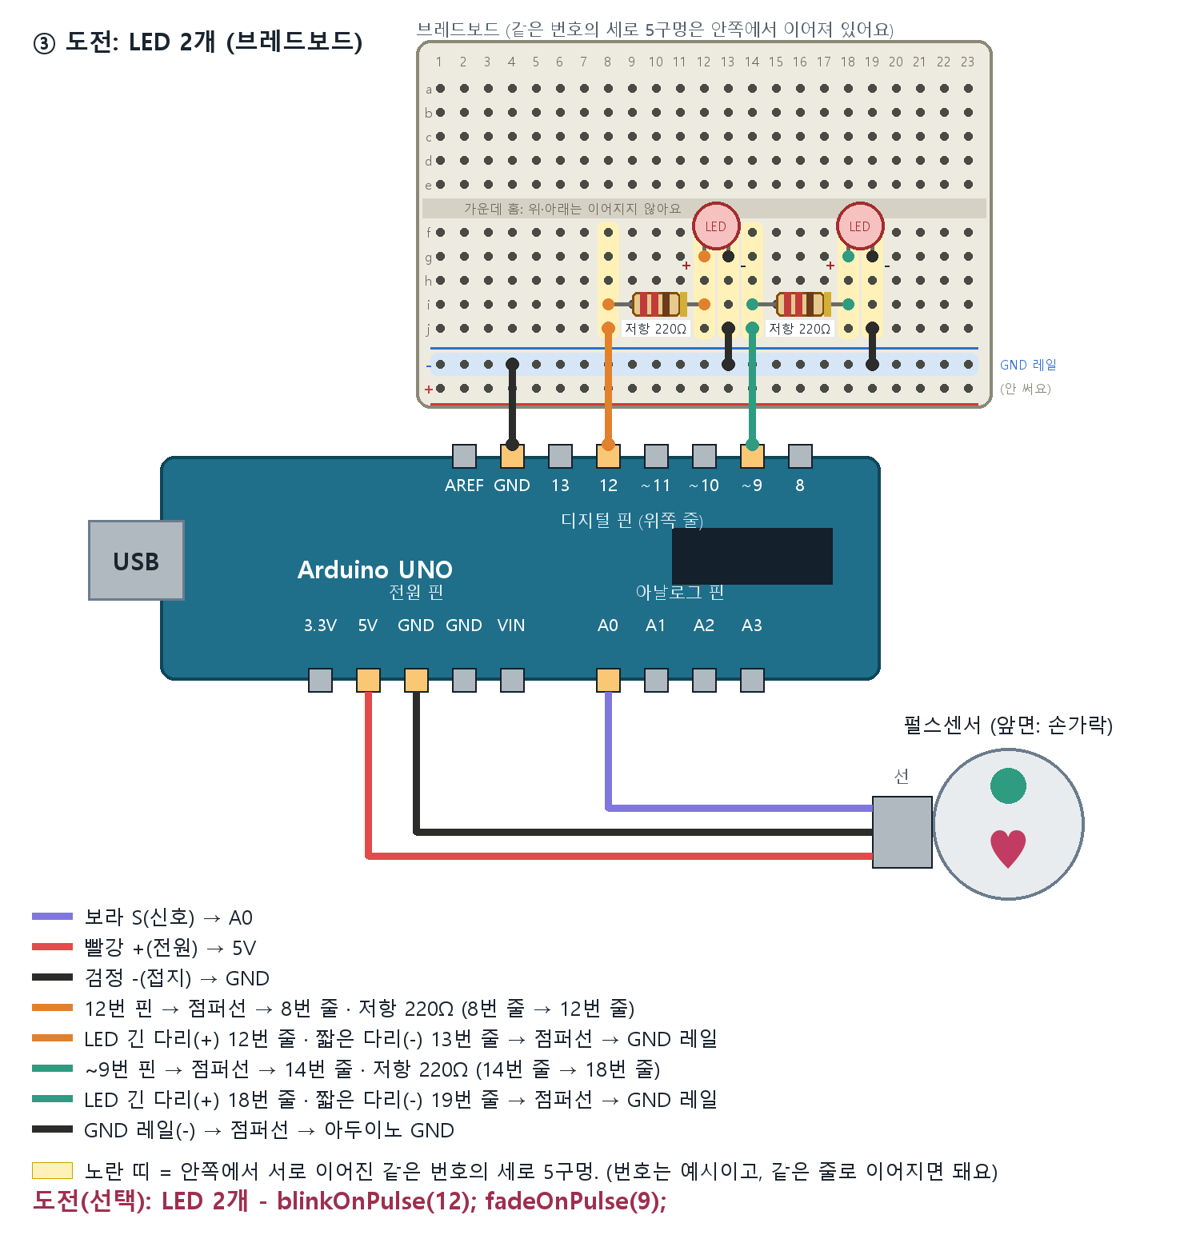
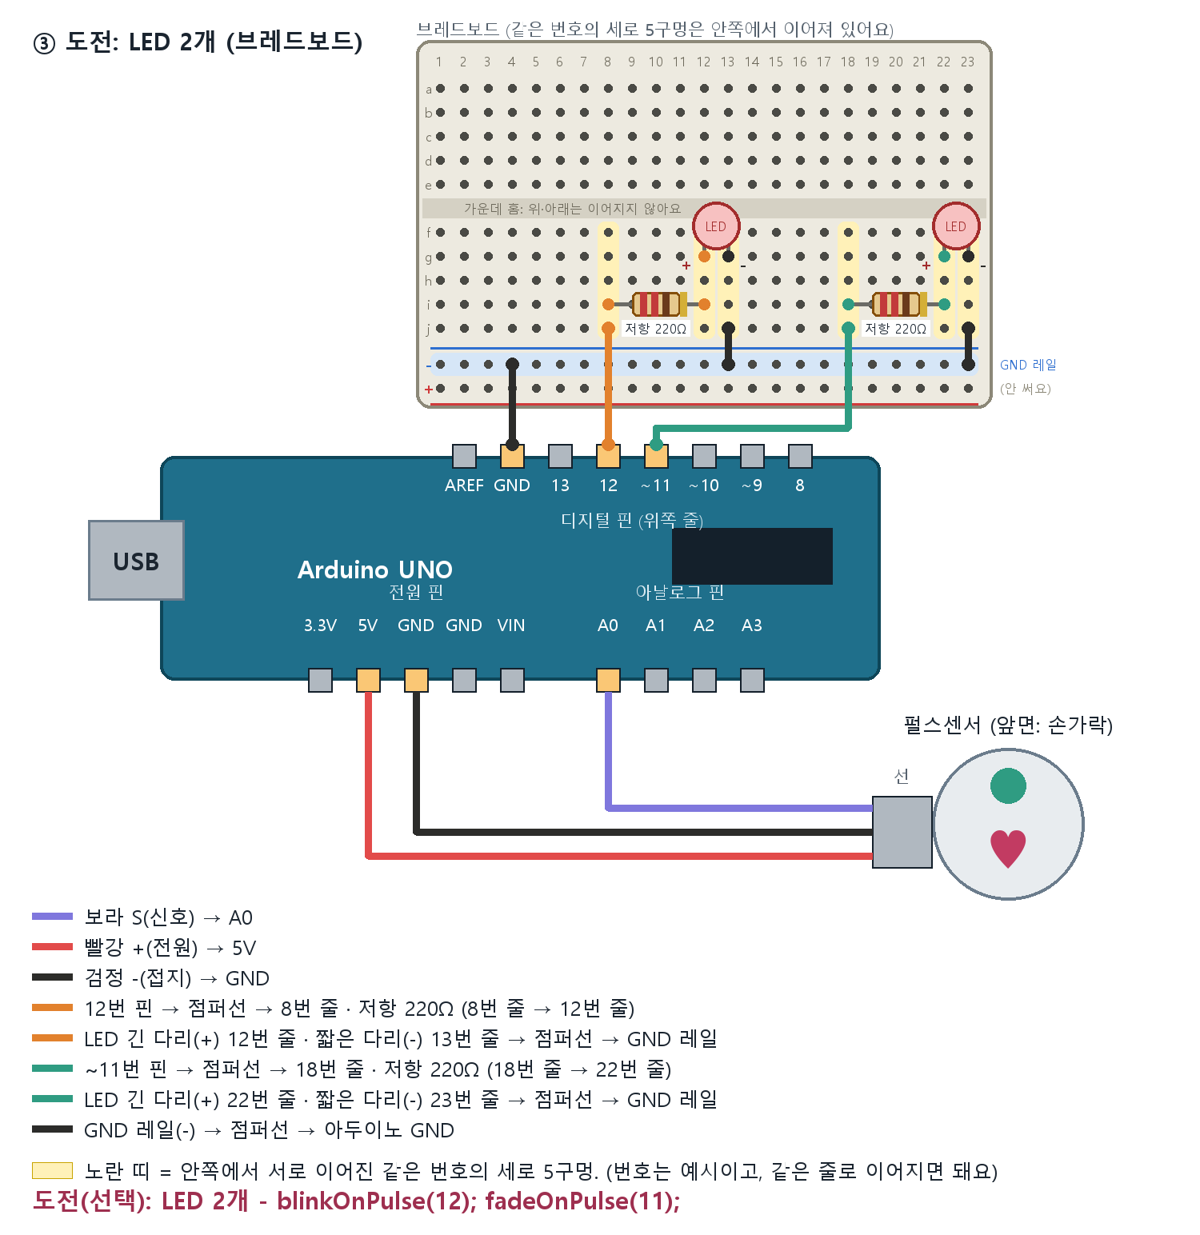
주제4 LED 2개 도면: 2번째 LED를 9번 → 11번 핀으로 (우노에서 센서 라이브러리가 Timer1을 써 9·10번 PWM 불가)

diff --git a/heart-rate-vitals/activity.html b/heart-rate-vitals/activity.html
@@ -524,7 +524,7 @@ void loop() {
             <li>코드에서 <code>pulseSensor.blinkOnPulse(LED_BUILTIN);</code> 를 <code>pulseSensor.blinkOnPulse(12);</code> 로 바꾼다.</li>
             <li>다시 업로드하고 손가락을 올리면 박동마다 LED가 깜빡인다.</li>
           </ol>
-          <p style="margin:0;color:var(--ink-soft)">LED가 안 켜지면 LED 방향(긴 다리가 12번 쪽)과 저항 연결을 확인하세요. 더 해 보기: LED와 저항(220Ω)을 하나 더 달고 <code>fadeOnPulse(핀번호)</code>로 서서히 밝아졌다 어두워지게(PWM 핀 5·6·9·10).</p>
+          <p style="margin:0;color:var(--ink-soft)">LED가 안 켜지면 LED 방향(긴 다리가 12번 쪽)과 저항 연결을 확인하세요. 더 해 보기: LED와 저항(220Ω)을 하나 더 달고 <code>fadeOnPulse(핀번호)</code>로 서서히 밝아졌다 어두워지게(PWM 핀 ~11·~6·~5·~3, 9·10번은 안 돼요).</p>
         </div>
       </details>
       <p class="hint">쉬고 있는데 BPM이 120보다 높게 나오면 손으로 센 값(15초×4)과 비교하고, MODE 2(그래프)에서 파형이 기준선을 두 번 넘는지 확인해 보세요. 파일(.ino)을 열면 폴더를 만들겠냐고 물어보는데 ‘예’를 누르세요.</p>
